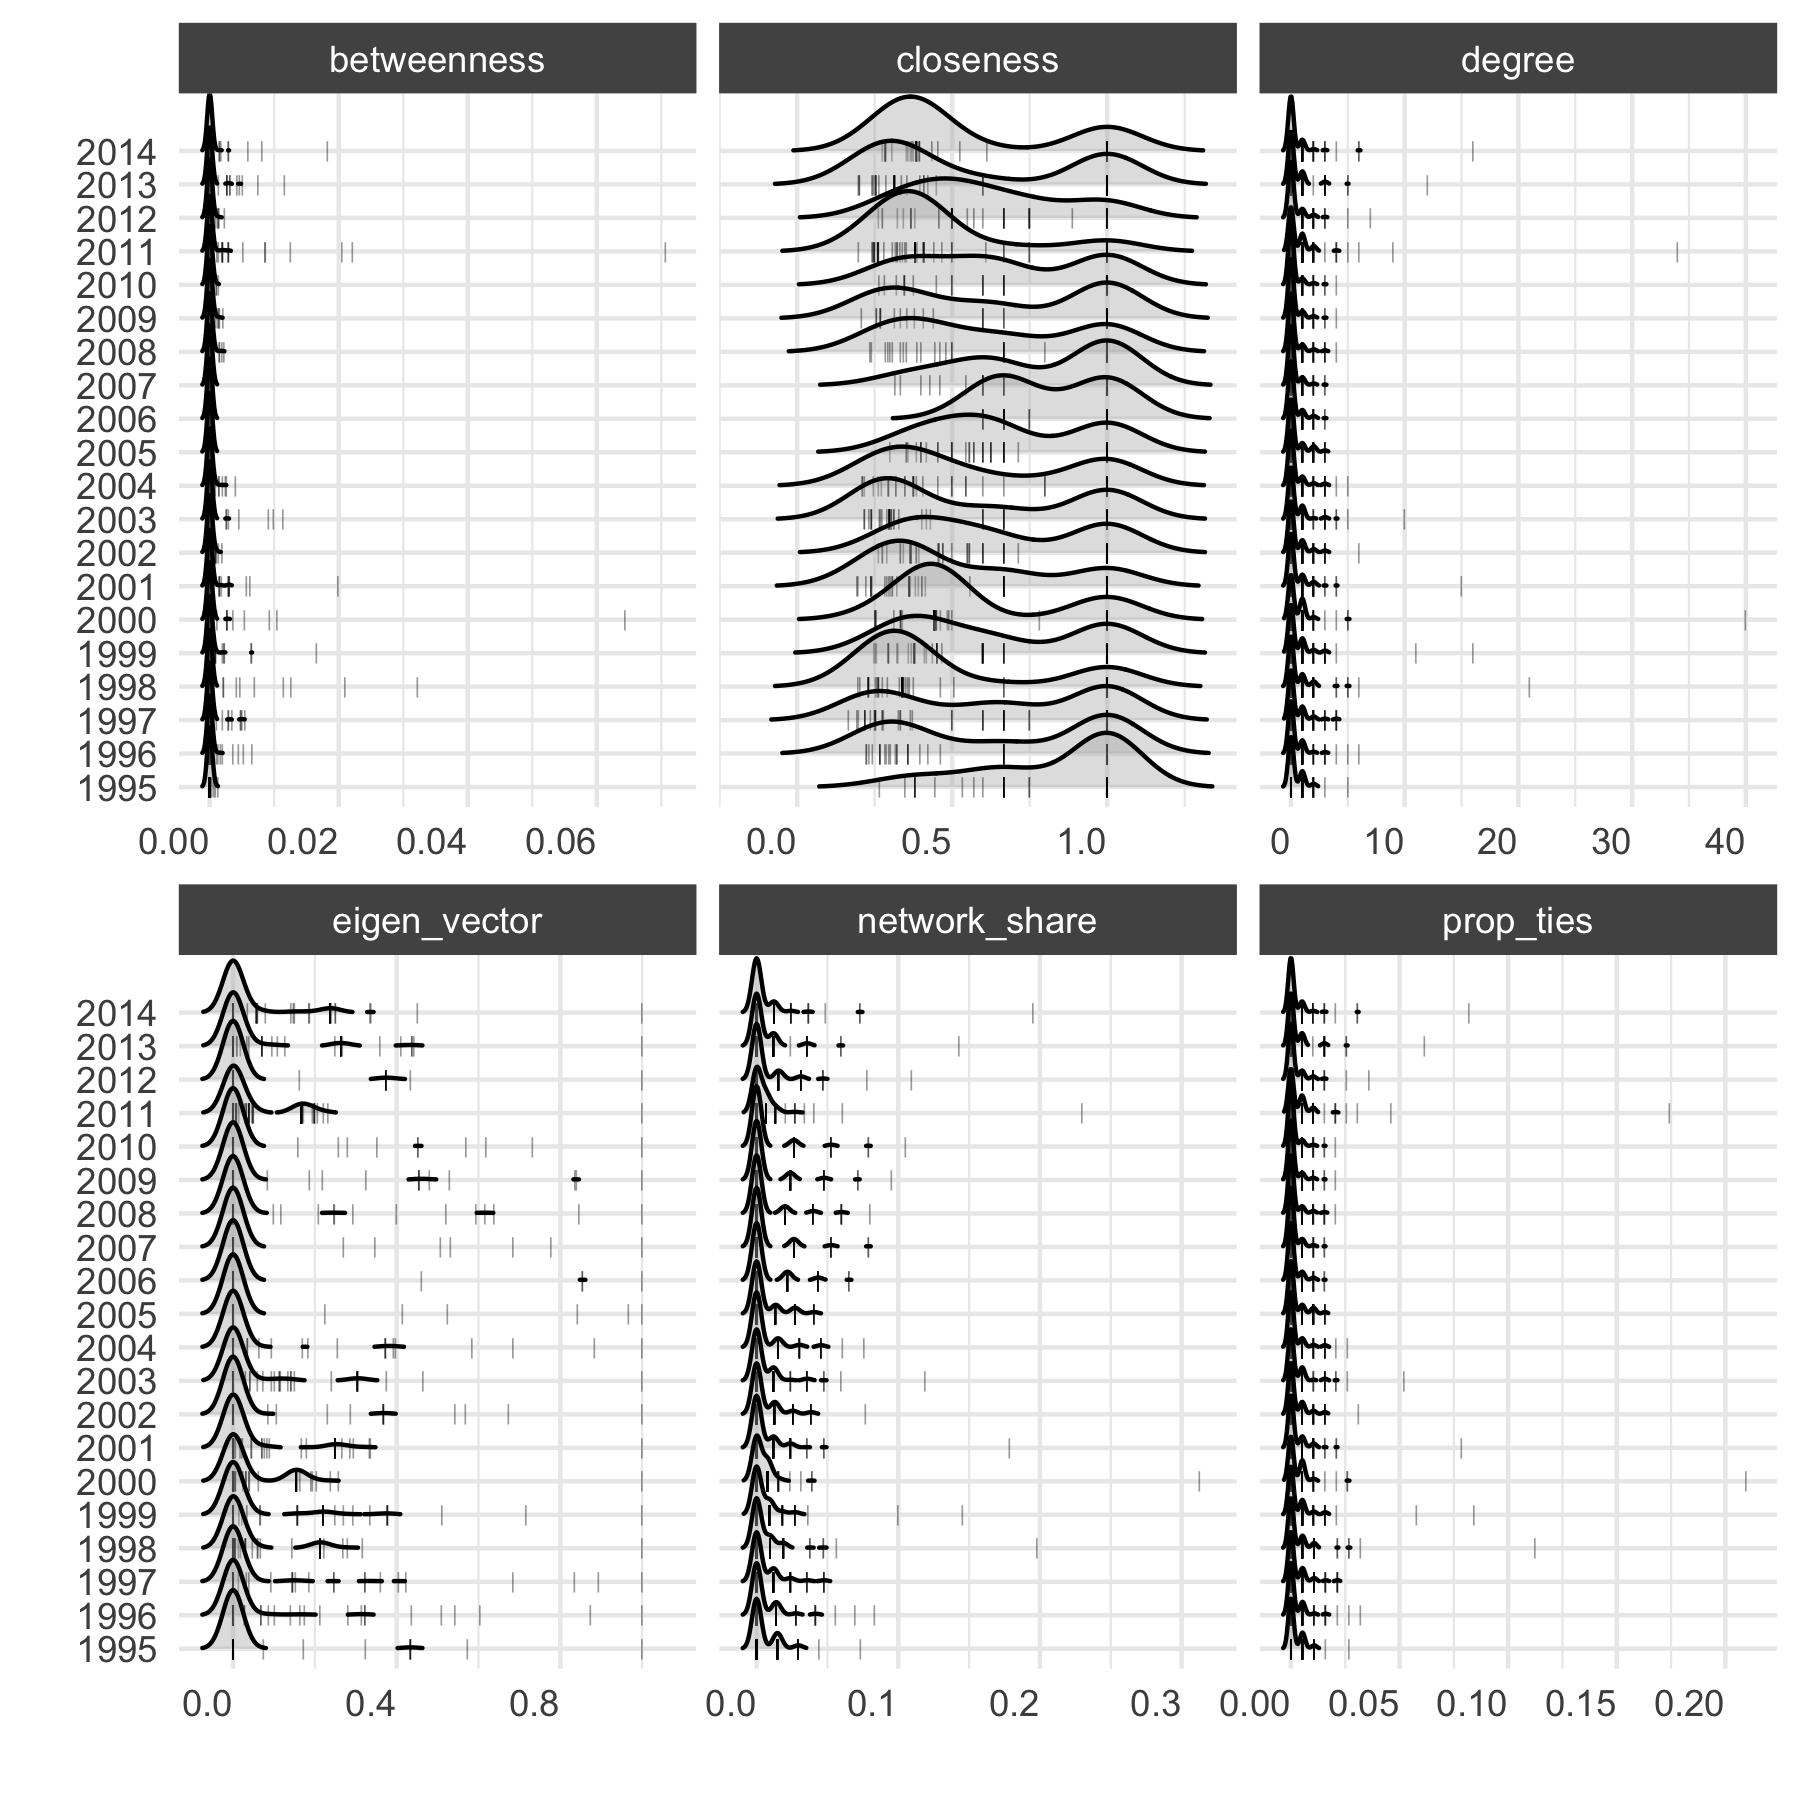
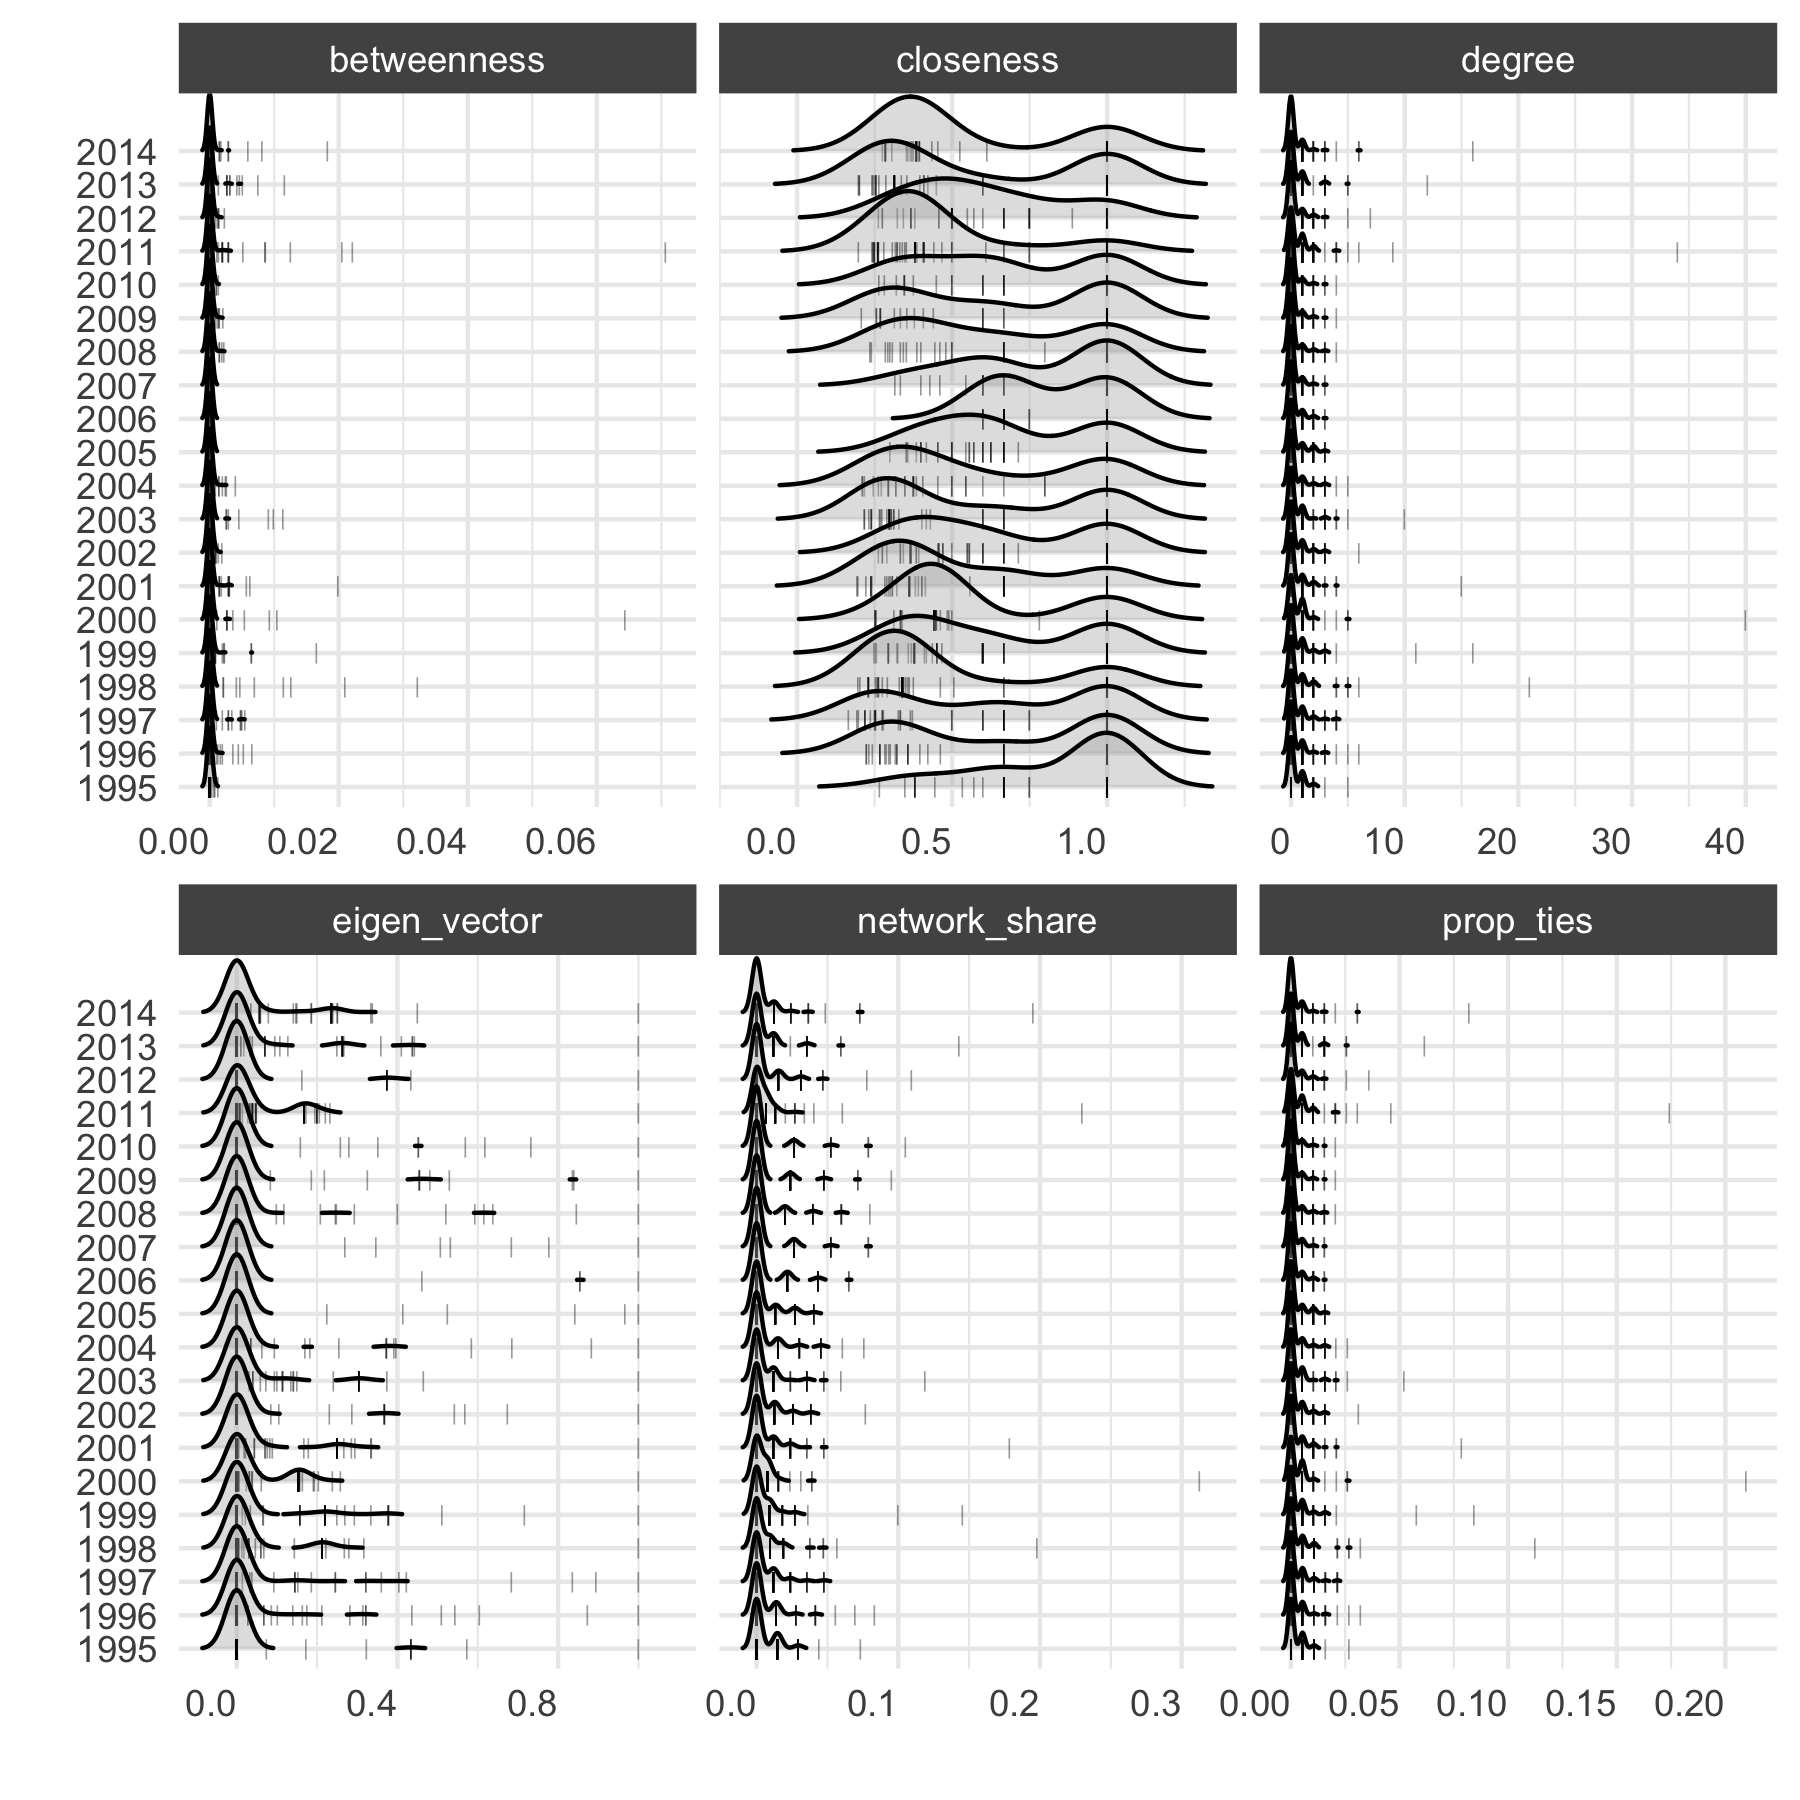
u

Changed region(s): [[0.1244, 0.5289, 0.2178, 0.9333], [0.28, 0.9333, 0.3111, 0.9644], [0.0933, 0.9333, 0.1244, 0.9644]]

diff --git a/public/materials/Slides/08_netify.html b/public/materials/Slides/08_netify.html
@@ -60,17 +60,17 @@ pre > code.sourceCode > span > a:first-child::before { text-decoration: underlin
 </style>
 
 
-<script src="foundations_files/libs/clipboard/clipboard.min.js"></script>
-<script src="foundations_files/libs/quarto-html/quarto.js" type="module"></script>
-<script src="foundations_files/libs/quarto-html/tabsets/tabsets.js" type="module"></script>
-<script src="foundations_files/libs/quarto-html/popper.min.js"></script>
-<script src="foundations_files/libs/quarto-html/tippy.umd.min.js"></script>
-<script src="foundations_files/libs/quarto-html/anchor.min.js"></script>
-<link href="foundations_files/libs/quarto-html/tippy.css" rel="stylesheet">
-<link href="foundations_files/libs/quarto-html/quarto-syntax-highlighting-e1a5c8363afafaef2c763b6775fbf3ca.css" rel="stylesheet" id="quarto-text-highlighting-styles">
-<script src="foundations_files/libs/bootstrap/bootstrap.min.js"></script>
-<link href="foundations_files/libs/bootstrap/bootstrap-icons.css" rel="stylesheet">
-<link href="foundations_files/libs/bootstrap/bootstrap-81267100e462c21b3d6c0d5bf76a3417.min.css" rel="stylesheet" append-hash="true" id="quarto-bootstrap" data-mode="light">
+<script src="08_netify_files/libs/clipboard/clipboard.min.js"></script>
+<script src="08_netify_files/libs/quarto-html/quarto.js" type="module"></script>
+<script src="08_netify_files/libs/quarto-html/tabsets/tabsets.js" type="module"></script>
+<script src="08_netify_files/libs/quarto-html/popper.min.js"></script>
+<script src="08_netify_files/libs/quarto-html/tippy.umd.min.js"></script>
+<script src="08_netify_files/libs/quarto-html/anchor.min.js"></script>
+<link href="08_netify_files/libs/quarto-html/tippy.css" rel="stylesheet">
+<link href="08_netify_files/libs/quarto-html/quarto-syntax-highlighting-e1a5c8363afafaef2c763b6775fbf3ca.css" rel="stylesheet" id="quarto-text-highlighting-styles">
+<script src="08_netify_files/libs/bootstrap/bootstrap.min.js"></script>
+<link href="08_netify_files/libs/bootstrap/bootstrap-icons.css" rel="stylesheet">
+<link href="08_netify_files/libs/bootstrap/bootstrap-81267100e462c21b3d6c0d5bf76a3417.min.css" rel="stylesheet" append-hash="true" id="quarto-bootstrap" data-mode="light">
 
   <script src="https://cdnjs.cloudflare.com/polyfill/v3/polyfill.min.js?features=es6"></script>
   <script src="https://cdn.jsdelivr.net/npm/mathjax@3/es5/tex-chtml-full.js" type="text/javascript"></script>
@@ -338,7 +338,7 @@ $`2010`
 <div class="cell-output-display">
 <div>
 <figure class="figure">
-<p><img src="foundations_files/figure-html/unnamed-chunk-6-1.png" class="img-fluid figure-img" width="900"></p>
+<p><img src="08_netify_files/figure-html/unnamed-chunk-6-1.png" class="img-fluid figure-img" width="900"></p>
 </figure>
 </div>
 </div>
@@ -357,12 +357,12 @@ $`2010`
 5   130 1995      1 0.005347594    0.01470588         1           0
 6   135 1995      1 0.005347594    0.01470588         1           0
   eigen_vector
-1 2.128128e-16
-2 2.523692e-16
-3 6.801114e-18
-4 6.801114e-18
-5 2.050508e-16
-6 2.237289e-16</code></pre>
+1            0
+2            0
+3            0
+4            0
+5            0
+6            0</code></pre>
 </div>
 </div>
 <p>We can look at the distribution of the statistic for all actors over time:</p>
@@ -376,7 +376,7 @@ $`2010`
 <div class="cell-output-display">
 <div>
 <figure class="figure">
-<p><img src="foundations_files/figure-html/unnamed-chunk-8-1.png" class="img-fluid figure-img" width="900"></p>
+<p><img src="08_netify_files/figure-html/unnamed-chunk-8-1.png" class="img-fluid figure-img" width="900"></p>
 </figure>
 </div>
 </div>
@@ -399,7 +399,7 @@ $`2010`
 <div class="cell-output-display">
 <div>
 <figure class="figure">
-<p><img src="foundations_files/figure-html/unnamed-chunk-9-1.png" class="img-fluid figure-img" width="900"></p>
+<p><img src="08_netify_files/figure-html/unnamed-chunk-9-1.png" class="img-fluid figure-img" width="900"></p>
 </figure>
 </div>
 </div>
@@ -422,7 +422,7 @@ $`2010`
 <div class="cell-output-display">
 <div>
 <figure class="figure">
-<p><img src="foundations_files/figure-html/unnamed-chunk-10-1.png" class="img-fluid figure-img" width="900"></p>
+<p><img src="08_netify_files/figure-html/unnamed-chunk-10-1.png" class="img-fluid figure-img" width="900"></p>
 </figure>
 </div>
 </div>
@@ -446,7 +446,7 @@ $`2010`
 <div class="cell-output-display">
 <div>
 <figure class="figure">
-<p><img src="foundations_files/figure-html/unnamed-chunk-11-1.png" class="img-fluid figure-img" width="900"></p>
+<p><img src="08_netify_files/figure-html/unnamed-chunk-11-1.png" class="img-fluid figure-img" width="900"></p>
 </figure>
 </div>
 </div>
@@ -466,7 +466,7 @@ $`2010`
 <div class="cell-output-display">
 <div>
 <figure class="figure">
-<p><img src="foundations_files/figure-html/unnamed-chunk-12-1.png" class="img-fluid figure-img" width="900"></p>
+<p><img src="08_netify_files/figure-html/unnamed-chunk-12-1.png" class="img-fluid figure-img" width="900"></p>
 </figure>
 </div>
 </div>
@@ -483,7 +483,7 @@ $`2010`
 <div class="cell-output-display">
 <div>
 <figure class="figure">
-<p><img src="foundations_files/figure-html/unnamed-chunk-12-2.png" class="img-fluid figure-img" width="900"></p>
+<p><img src="08_netify_files/figure-html/unnamed-chunk-12-2.png" class="img-fluid figure-img" width="900"></p>
 </figure>
 </div>
 </div>
@@ -535,11 +535,11 @@ wbgdppc2011est2_log, degree, prop_ties, eigen_vector
 5   100 1999          0.553          0.864          10.860            2.385086
 6   100 2000          0.562          0.863          10.888            2.387661
   degree   prop_ties eigen_vector
-1      1 0.005347594 2.128128e-16
-2      0 0.000000000 0.000000e+00
+1      1 0.005347594 0.000000e+00
+2      0 0.000000000 7.773374e-19
 3      1 0.005347594 0.000000e+00
-4      0 0.000000000 2.024977e-18
-5      0 0.000000000 3.614625e-18
+4      0 0.000000000 0.000000e+00
+5      0 0.000000000 2.723584e-18
 6      1 0.005235602 4.953675e-03</code></pre>
 </div>
 <div class="sourceCode cell-code" id="cb29"><pre class="sourceCode r code-with-copy"><code class="sourceCode r"><span id="cb29-1"><a href="#cb29-1" aria-hidden="true" tabindex="-1"></a><span class="co"># i.e.,</span></span>
@@ -553,11 +553,11 @@ wbgdppc2011est2_log, degree, prop_ties, eigen_vector
 5   100 1999          0.553          0.864          10.860            2.385086
 6   100 2000          0.562          0.863          10.888            2.387661
   degree   prop_ties eigen_vector
-1      1 0.005347594 2.128128e-16
-2      0 0.000000000 0.000000e+00
+1      1 0.005347594 0.000000e+00
+2      0 0.000000000 7.773374e-19
 3      1 0.005347594 0.000000e+00
-4      0 0.000000000 2.024977e-18
-5      0 0.000000000 3.614625e-18
+4      0 0.000000000 0.000000e+00
+5      0 0.000000000 2.723584e-18
 6      1 0.005235602 4.953675e-03</code></pre>
 </div>
 </div>
@@ -576,7 +576,7 @@ wbgdppc2011est2_log, degree, prop_ties, eigen_vector
 <div class="cell-output-display">
 <div>
 <figure class="figure">
-<p><img src="foundations_files/figure-html/unnamed-chunk-16-1.png" class="img-fluid figure-img" width="900"></p>
+<p><img src="08_netify_files/figure-html/unnamed-chunk-16-1.png" class="img-fluid figure-img" width="900"></p>
 </figure>
 </div>
 </div>
@@ -601,7 +601,7 @@ Adding another scale for colour, which will replace the existing scale.</code></
 <div class="cell-output-display">
 <div>
 <figure class="figure">
-<p><img src="foundations_files/figure-html/unnamed-chunk-16-2.png" class="img-fluid figure-img" width="900"></p>
+<p><img src="08_netify_files/figure-html/unnamed-chunk-16-2.png" class="img-fluid figure-img" width="900"></p>
 </figure>
 </div>
 </div>
@@ -649,7 +649,7 @@ increasing max.overlaps</code></pre>
 <div class="cell-output-display">
 <div>
 <figure class="figure">
-<p><img src="foundations_files/figure-html/unnamed-chunk-17-1.png" class="img-fluid figure-img" width="900"></p>
+<p><img src="08_netify_files/figure-html/unnamed-chunk-17-1.png" class="img-fluid figure-img" width="900"></p>
 </figure>
 </div>
 </div>
@@ -683,7 +683,7 @@ increasing max.overlaps</code></pre>
 <div class="cell-output-display">
 <div>
 <figure class="figure">
-<p><img src="foundations_files/figure-html/unnamed-chunk-17-2.png" class="img-fluid figure-img" width="900"></p>
+<p><img src="08_netify_files/figure-html/unnamed-chunk-17-2.png" class="img-fluid figure-img" width="900"></p>
 </figure>
 </div>
 </div>
@@ -850,15 +850,36 @@ changes.</code></pre>
  Edge attribute names: 
     capdist_e cowmidonset </code></pre>
 </div>
-<div class="sourceCode cell-code" id="cb57"><pre class="sourceCode r code-with-copy"><code class="sourceCode r"><span id="cb57-1"><a href="#cb57-1" aria-hidden="true" tabindex="-1"></a><span class="co"># plug and run</span></span>
-<span id="cb57-2"><a href="#cb57-2" aria-hidden="true" tabindex="-1"></a><span class="co"># Fit the ERGM model (well not a real ergm)</span></span>
-<span id="cb57-3"><a href="#cb57-3" aria-hidden="true" tabindex="-1"></a>ergm_model <span class="ot">&lt;-</span> <span class="fu">ergm</span>(</span>
-<span id="cb57-4"><a href="#cb57-4" aria-hidden="true" tabindex="-1"></a>    <span class="at">formula =</span> mid_cross_ergm <span class="sc">~</span></span>
-<span id="cb57-5"><a href="#cb57-5" aria-hidden="true" tabindex="-1"></a>        edges <span class="sc">+</span></span>
-<span id="cb57-6"><a href="#cb57-6" aria-hidden="true" tabindex="-1"></a>        <span class="fu">nodecov</span>(<span class="st">"polity21"</span>) <span class="sc">+</span></span>
-<span id="cb57-7"><a href="#cb57-7" aria-hidden="true" tabindex="-1"></a>        <span class="fu">nodecov</span>(<span class="st">"wbgdp2011est2"</span>) <span class="sc">+</span></span>
-<span id="cb57-8"><a href="#cb57-8" aria-hidden="true" tabindex="-1"></a>        <span class="fu">nodecov</span>(<span class="st">"wbpopest2"</span>)</span>
-<span id="cb57-9"><a href="#cb57-9" aria-hidden="true" tabindex="-1"></a>)</span></code><button title="Copy to Clipboard" class="code-copy-button"><i class="bi"></i></button></pre></div>
+<div class="sourceCode cell-code" id="cb57"><pre class="sourceCode r code-with-copy"><code class="sourceCode r"><span id="cb57-1"><a href="#cb57-1" aria-hidden="true" tabindex="-1"></a><span class="co"># set NA values to 0 for the three nodecov variables</span></span>
+<span id="cb57-2"><a href="#cb57-2" aria-hidden="true" tabindex="-1"></a><span class="co"># this is only for demonstration purposes in the vignette/example</span></span>
+<span id="cb57-3"><a href="#cb57-3" aria-hidden="true" tabindex="-1"></a><span class="co"># in any real analysis, carefully consider how to handle missing data</span></span>
+<span id="cb57-4"><a href="#cb57-4" aria-hidden="true" tabindex="-1"></a><span class="fu">set.vertex.attribute</span>(</span>
+<span id="cb57-5"><a href="#cb57-5" aria-hidden="true" tabindex="-1"></a>    mid_cross_ergm, <span class="st">"polity21"</span>, </span>
+<span id="cb57-6"><a href="#cb57-6" aria-hidden="true" tabindex="-1"></a>    <span class="fu">ifelse</span>(</span>
+<span id="cb57-7"><a href="#cb57-7" aria-hidden="true" tabindex="-1"></a>        <span class="fu">is.na</span>(<span class="fu">get.vertex.attribute</span>(mid_cross_ergm, <span class="st">"polity21"</span>)), </span>
+<span id="cb57-8"><a href="#cb57-8" aria-hidden="true" tabindex="-1"></a>        <span class="dv">0</span>, <span class="fu">get.vertex.attribute</span>(mid_cross_ergm, <span class="st">"polity21"</span>)))</span>
+<span id="cb57-9"><a href="#cb57-9" aria-hidden="true" tabindex="-1"></a></span>
+<span id="cb57-10"><a href="#cb57-10" aria-hidden="true" tabindex="-1"></a><span class="fu">set.vertex.attribute</span>(</span>
+<span id="cb57-11"><a href="#cb57-11" aria-hidden="true" tabindex="-1"></a>    mid_cross_ergm, <span class="st">"wbgdp2011est2"</span>, </span>
+<span id="cb57-12"><a href="#cb57-12" aria-hidden="true" tabindex="-1"></a>    <span class="fu">ifelse</span>(</span>
+<span id="cb57-13"><a href="#cb57-13" aria-hidden="true" tabindex="-1"></a>        <span class="fu">is.na</span>(<span class="fu">get.vertex.attribute</span>(mid_cross_ergm, <span class="st">"wbgdp2011est2"</span>)), </span>
+<span id="cb57-14"><a href="#cb57-14" aria-hidden="true" tabindex="-1"></a>        <span class="dv">0</span>, <span class="fu">get.vertex.attribute</span>(mid_cross_ergm, <span class="st">"wbgdp2011est2"</span>)) )</span>
+<span id="cb57-15"><a href="#cb57-15" aria-hidden="true" tabindex="-1"></a></span>
+<span id="cb57-16"><a href="#cb57-16" aria-hidden="true" tabindex="-1"></a><span class="fu">set.vertex.attribute</span>(</span>
+<span id="cb57-17"><a href="#cb57-17" aria-hidden="true" tabindex="-1"></a>    mid_cross_ergm, <span class="st">"wbpopest2"</span>, </span>
+<span id="cb57-18"><a href="#cb57-18" aria-hidden="true" tabindex="-1"></a>    <span class="fu">ifelse</span>(</span>
+<span id="cb57-19"><a href="#cb57-19" aria-hidden="true" tabindex="-1"></a>        <span class="fu">is.na</span>(<span class="fu">get.vertex.attribute</span>(mid_cross_ergm, <span class="st">"wbpopest2"</span>)), </span>
+<span id="cb57-20"><a href="#cb57-20" aria-hidden="true" tabindex="-1"></a>        <span class="dv">0</span>,  <span class="fu">get.vertex.attribute</span>(mid_cross_ergm, <span class="st">"wbpopest2"</span>)) )</span>
+<span id="cb57-21"><a href="#cb57-21" aria-hidden="true" tabindex="-1"></a></span>
+<span id="cb57-22"><a href="#cb57-22" aria-hidden="true" tabindex="-1"></a><span class="co"># plug and run</span></span>
+<span id="cb57-23"><a href="#cb57-23" aria-hidden="true" tabindex="-1"></a><span class="co"># Fit the ERGM model (well not a real ergm)</span></span>
+<span id="cb57-24"><a href="#cb57-24" aria-hidden="true" tabindex="-1"></a>ergm_model <span class="ot">&lt;-</span> <span class="fu">ergm</span>(</span>
+<span id="cb57-25"><a href="#cb57-25" aria-hidden="true" tabindex="-1"></a>    <span class="at">formula =</span> mid_cross_ergm <span class="sc">~</span></span>
+<span id="cb57-26"><a href="#cb57-26" aria-hidden="true" tabindex="-1"></a>        edges <span class="sc">+</span></span>
+<span id="cb57-27"><a href="#cb57-27" aria-hidden="true" tabindex="-1"></a>        <span class="fu">nodecov</span>(<span class="st">"polity21"</span>) <span class="sc">+</span></span>
+<span id="cb57-28"><a href="#cb57-28" aria-hidden="true" tabindex="-1"></a>        <span class="fu">nodecov</span>(<span class="st">"wbgdp2011est2"</span>) <span class="sc">+</span></span>
+<span id="cb57-29"><a href="#cb57-29" aria-hidden="true" tabindex="-1"></a>        <span class="fu">nodecov</span>(<span class="st">"wbpopest2"</span>)</span>
+<span id="cb57-30"><a href="#cb57-30" aria-hidden="true" tabindex="-1"></a>)</span></code><button title="Copy to Clipboard" class="code-copy-button"><i class="bi"></i></button></pre></div>
 <div class="cell-output cell-output-stderr">
 <pre><code>Starting maximum pseudolikelihood estimation (MPLE):</code></pre>
 </div>
